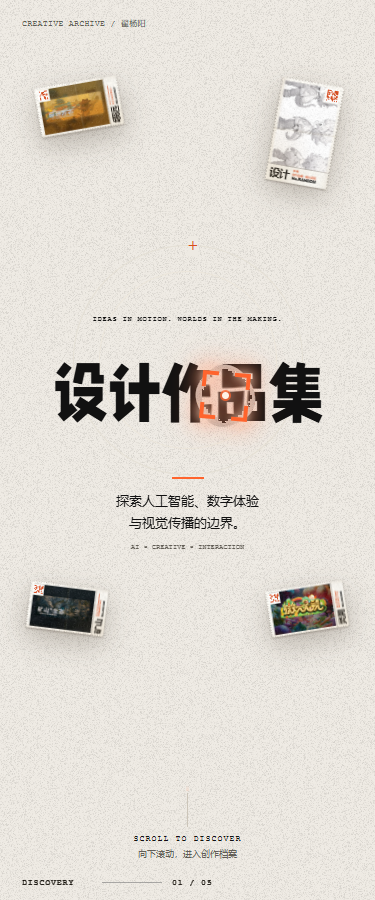
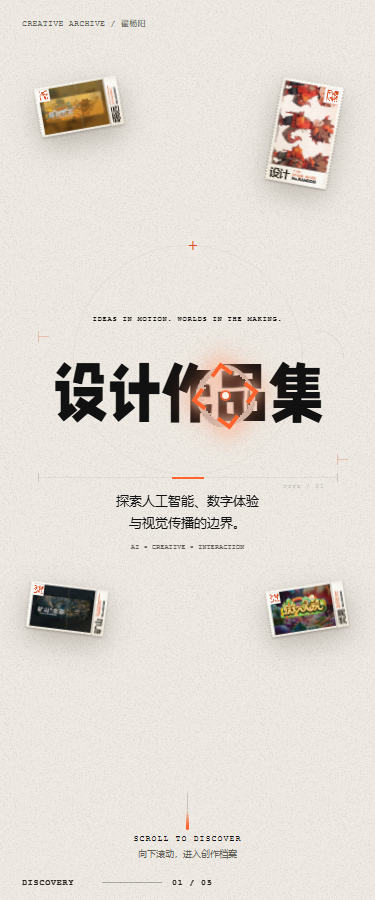
玻璃

Changed region(s): [[0.704, 0.0622, 0.9093, 0.2178], [0.4987, 0.4044, 0.704, 0.4978], [0.4987, 0.9022, 0.528, 0.9333]]

diff --git a/New/js/components/GlassTitle.jsx b/New/js/components/GlassTitle.jsx
@@ -1,10 +1,28 @@
 import FoldText from './FoldText';
-import { useEffect, useRef, useState } from 'react';
+import { lazy, Suspense, useEffect, useRef, useState } from 'react';
+const FluidGlass = lazy(() => import('./FluidGlass'));
 import '../../css/glass-title.css';
 
 export function GlassTitle() {
   const host = useRef(null);
   const [ready, setReady] = useState(false);
+  const [glass, setGlass] = useState(false);
+  const [reduced, setReduced] = useState(false);
+  const [size, setSize] = useState({ font:100, compact:false });
+  useEffect(() => {
+    const update = () => setSize({font:parseFloat(getComputedStyle(host.current.querySelector('h1')).fontSize),compact:innerWidth<=600});
+    const observer = new ResizeObserver(update);
+    observer.observe(host.current); update();
+    const media = matchMedia('(prefers-reduced-motion: reduce)');
+    const preference = () => setReduced(media.matches);
+    preference();media.addEventListener('change',preference);
+    return () => {observer.disconnect();media.removeEventListener('change',preference);};
+  }, []);
+  useEffect(() => {
+    if (!ready || reduced) return;
+    const timer = setTimeout(() => setGlass(true), 1700);
+    return () => clearTimeout(timer);
+  }, [ready,reduced]);
   useEffect(() => {
     const landing = host.current.closest('.hero-landing');
     let active = true, fontReady = false;
@@ -16,8 +34,16 @@ export function GlassTitle() {
   }, []);
   return <div ref={host} className="hero-glass-title hero-fold-title"><h1 id="hero-title">
     {ready ? <FoldText text="设计作品集" foldStyle="blinds" splitBy="char" hinge="top"
-      trigger="scroll" foldAngle={90} duration={1.1} stagger={.08} staggerFrom="center"
-      ease="expo.out" hoverRefold refoldRadius={100} refoldAngle={60}
+      trigger="mount" foldAngle={90} duration={1.1} stagger={.08} staggerFrom="center"
+      ease="expo.out" hoverRefold={!glass} refoldRadius={100} refoldAngle={60}
       perspective={500} creaseShading={.8} fontSize="inherit" fontWeight={400}/> : '设计作品集'}
-  </h1></div>;
+  </h1>
+    {glass && !reduced && <div className="hero-glass-title__effect" aria-hidden="true"><Suspense fallback={null}>
+      <FluidGlass text="设计作品集" fontFamily="PortfolioTitle, Microsoft YaHei, sans-serif"
+        fontWeight={400} fontSize={size.font} textColor="#111111" shape="blob" size={size.compact?68:190}
+        interaction="follow" refraction={size.compact?.25:.85} dispersion={size.compact?.18:.85} reflection={size.compact?.3:.75}
+        shadow={0} elevation={.25} wobble={size.compact?.15:.4} morphOnClick={false}
+        maxDevicePixelRatio={1} intro={false}/>
+    </Suspense></div>}
+  </div>;
 }

diff --git a/New/js/tests/glass-title.spec.ts b/New/js/tests/glass-title.spec.ts
@@ -7,7 +7,7 @@ for (const width of [1440, 375]) {
     await page.setViewportSize({ width, height: 900 });
     await page.goto('/Portfolio-YoungSliker/New/');
     await enterArchive(page);
-    await expect(page.locator('#hero-title')).toHaveText('设计作品集');
+    await expect(page.locator('#hero-title')).toHaveAccessibleName('设计作品集');
     await expect(page.locator('.fluid-glass')).toHaveAttribute('data-rendered', 'true', { timeout: 20000 });
     await expect(page.locator('.fluid-glass')).toHaveAttribute('data-glass-ready', 'true', { timeout: 20000 });
     const box = await page.locator('.hero-glass-title').boundingBox();
@@ -20,3 +20,4 @@ for (const width of [1440, 375]) {
     await expect(page.locator('#hero-title')).toHaveCSS('opacity', '1');
   });
 }
+
